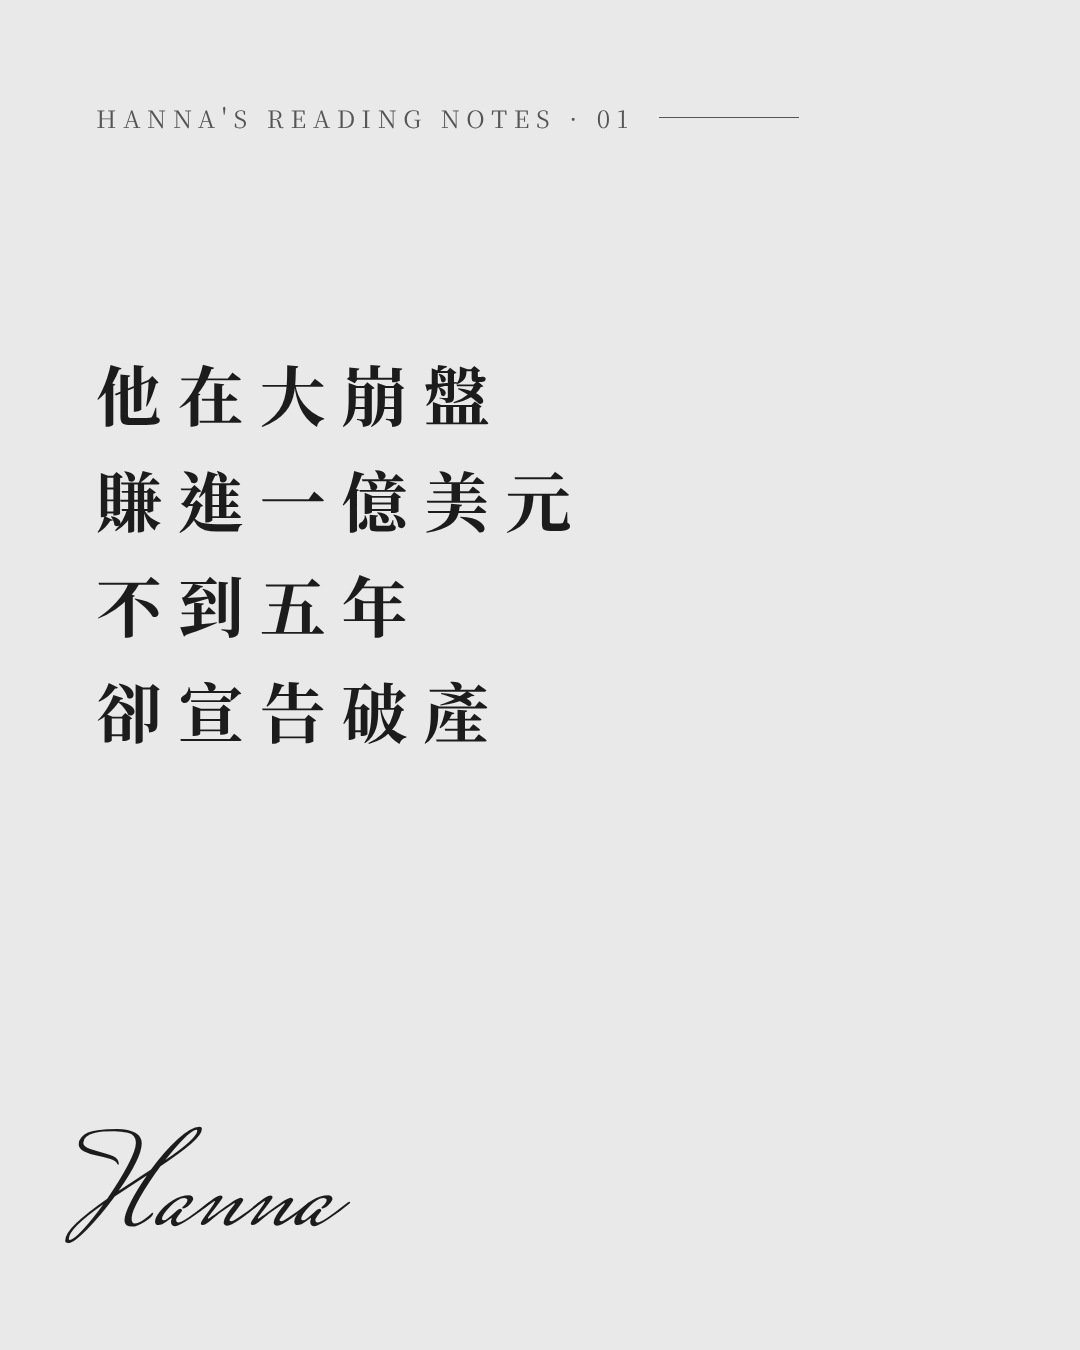
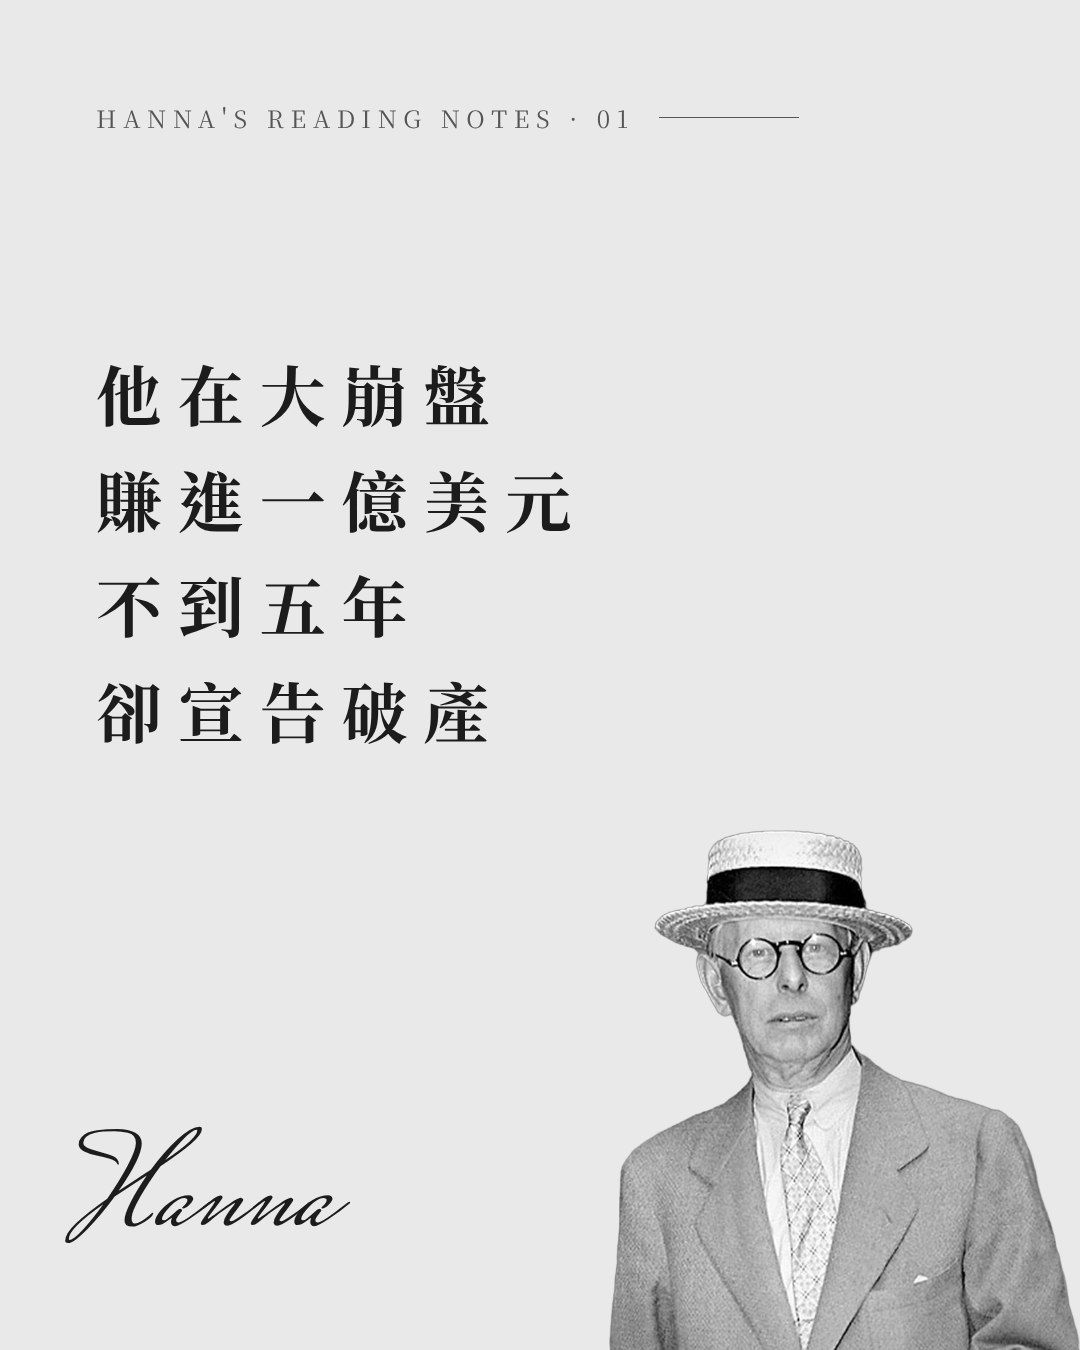
交易紀律輪播：封面加入 Jesse Livermore 去背照
Claude-Session: https://claude.ai/code/session_01AFjNkU8XspDCm6xvkskaQj

Changed region(s): [[0.55, 0.6222, 1.0, 1.0]]

diff --git a/IP經營/輪播_交易紀律/slides.html b/IP經營/輪播_交易紀律/slides.html
@@ -20,7 +20,7 @@
   }
   .series::after { content: ""; width: 140px; height: 1px; background: var(--soft); }
   .person {
-    position: absolute; right: 0; bottom: 0; width: 430px; height: 520px;
+    position: absolute; right: 0; bottom: 0; width: 471px; height: 520px;
     background: url(person.png) center top / cover no-repeat;
   }
   .who { position: absolute; left: 96px; bottom: 330px; }

diff --git a/IP經營/輪播貼文_交易紀律.md b/IP經營/輪播貼文_交易紀律.md
@@ -2,7 +2,7 @@
 
 圖檔：`IP經營/輪播_交易紀律/01.png`～`10.png`
 人物：Jesse Livermore（封面不顯示姓名，第 3 張揭曉）
-封面人物照：待使用者提供，收到後放成 `IP經營/輪播_交易紀律/person.png` 並重新算圖
+封面人物照：使用者提供的老照片，已去背（birefnet-portrait）
 
 ## 貼文說明文字（Caption）
 
